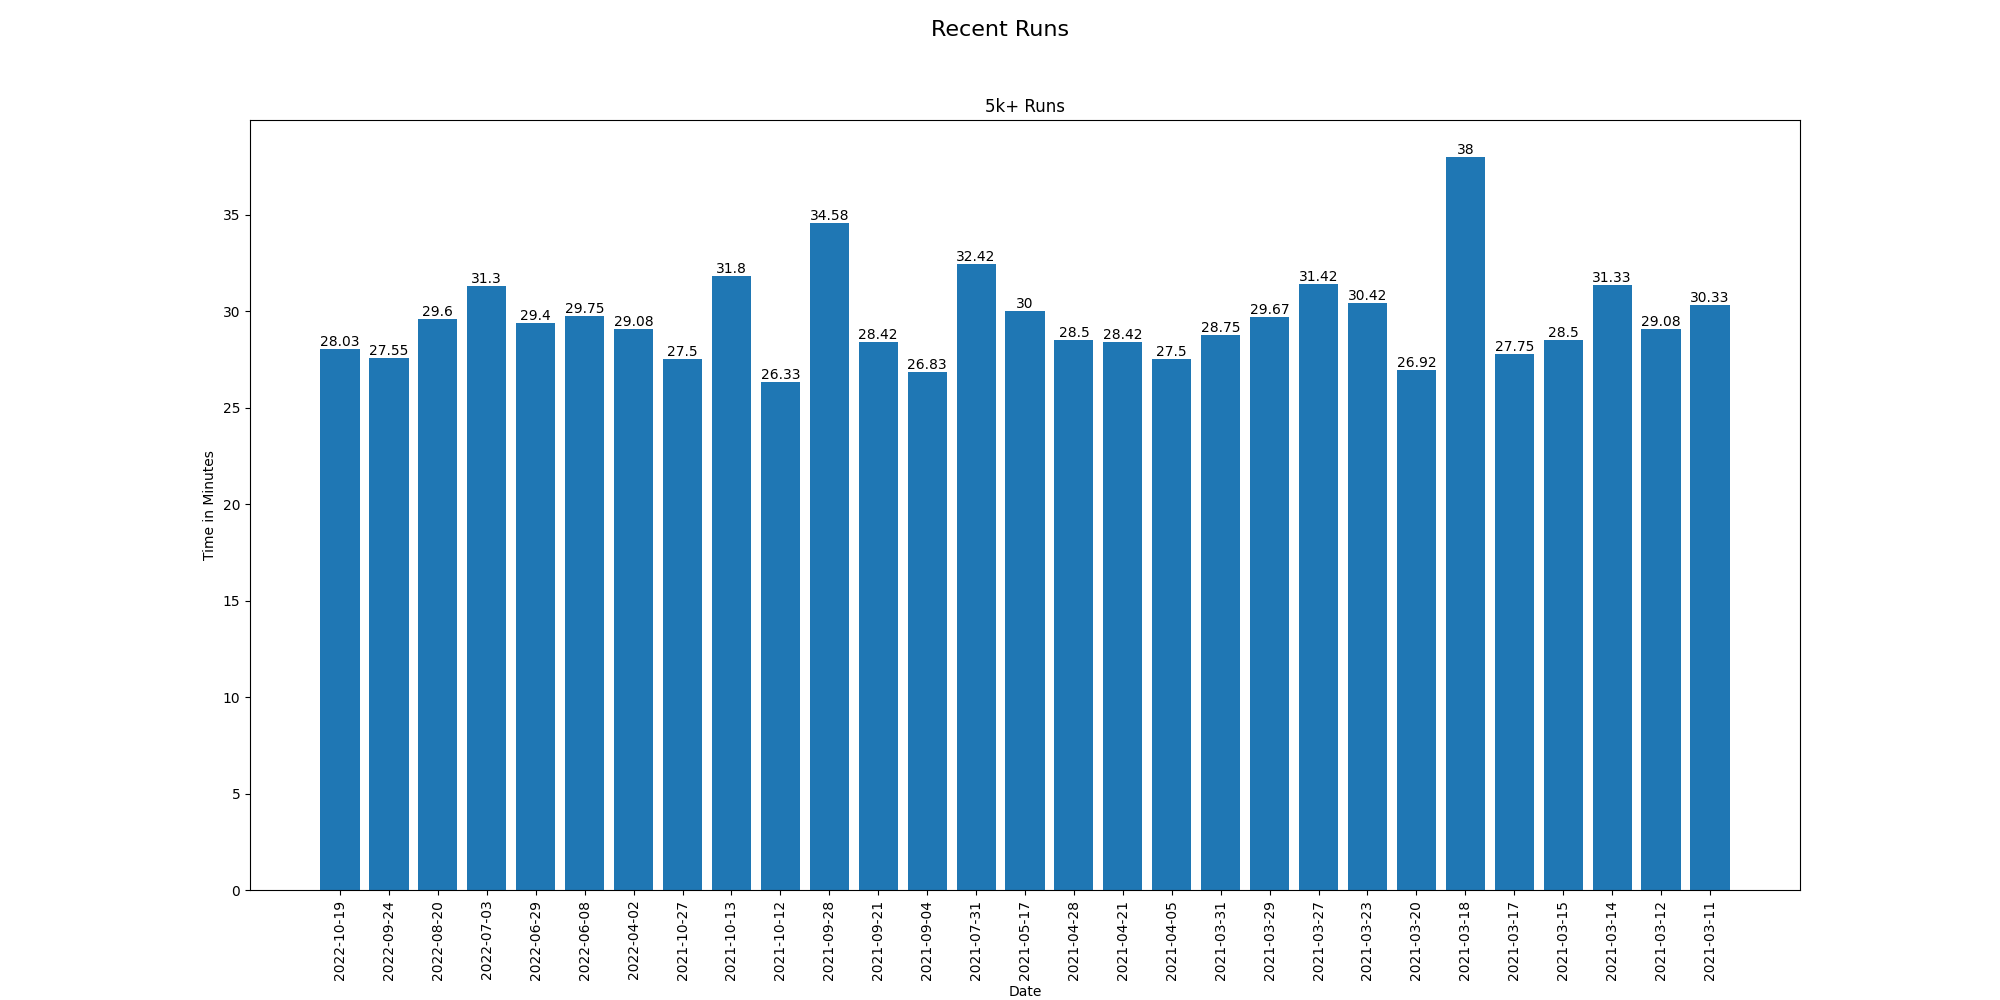
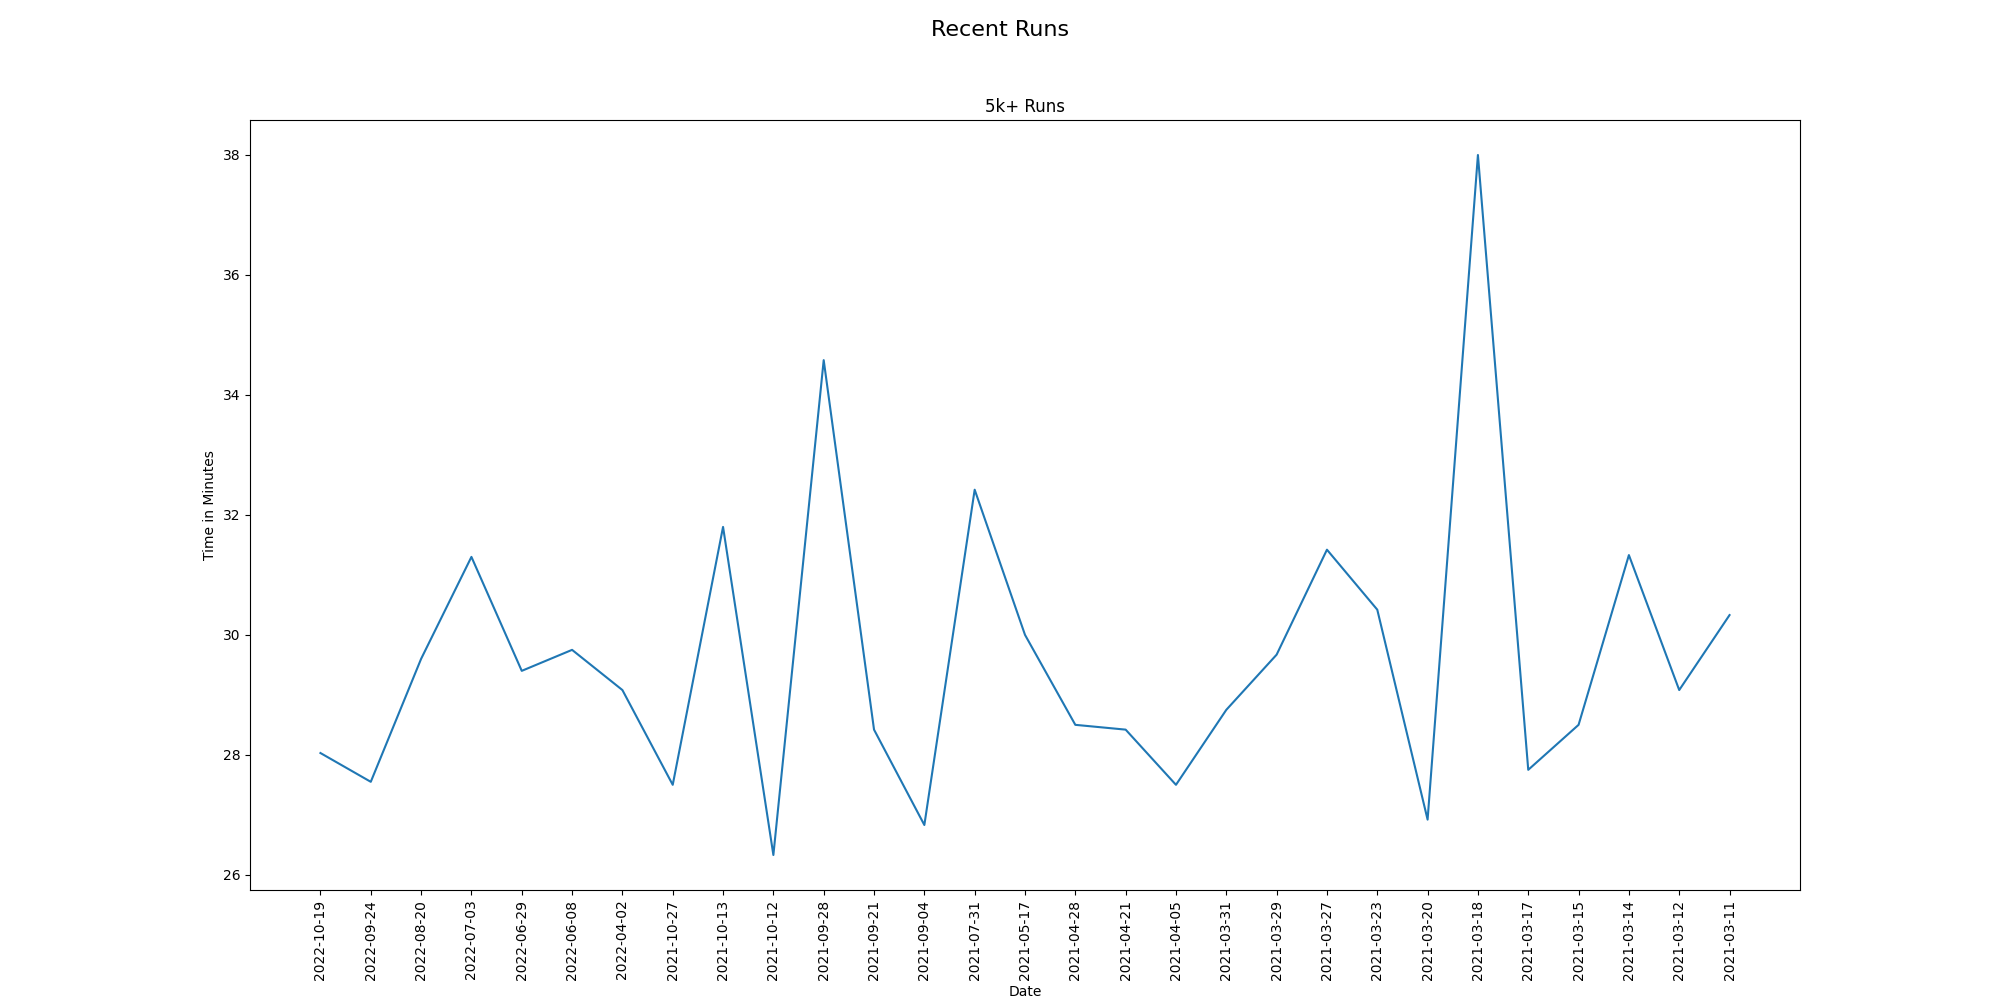
Made it into linechart. Fixed refresh token issues

diff --git a/main.py b/main.py
@@ -29,7 +29,18 @@ def get_activities():
         strava_tokens = json.load(json_file)
         
     if strava_tokens['expires_at'] < time.time():
-        strava_tokens = get_strava_tokens()
+        response = requests.post(
+                        url = 'https://www.strava.com/oauth/token',
+                        data = {'client_id': data['client_id'],
+                                'client_secret': data['client_secret'],
+                                'grant_type': 'refresh_token',
+                                'refresh_token': strava_tokens['refresh_token']
+                                })
+        
+        new_strava_tokens = response.json()
+        with open('strava_tokens.json', 'w') as outfile:
+            json.dump(new_strava_tokens, outfile)
+        strava_tokens = new_strava_tokens
         
     page = 1
     url = "https://www.strava.com/api/v3/activities"
@@ -81,8 +92,9 @@ def get_activities():
     fig.suptitle(f'Recent Runs', fontsize=16)
 
     ax0 = fig.add_subplot(gs[0, 0])
-    bars = ax0.bar(activities["start_date_local"], activities["moving_time"])
-    ax0.bar_label(bars)
+    # bars = ax0.bar(activities["start_date_local"], activities["moving_time"])
+    ax0.plot(activities["start_date_local"], activities["moving_time"])
+    # ax0.bar_label(bars)
     ax0.set_title('5k+ Runs')
     ax0.set_xlabel('Date')
     ax0.set_ylabel('Time in Minutes')
